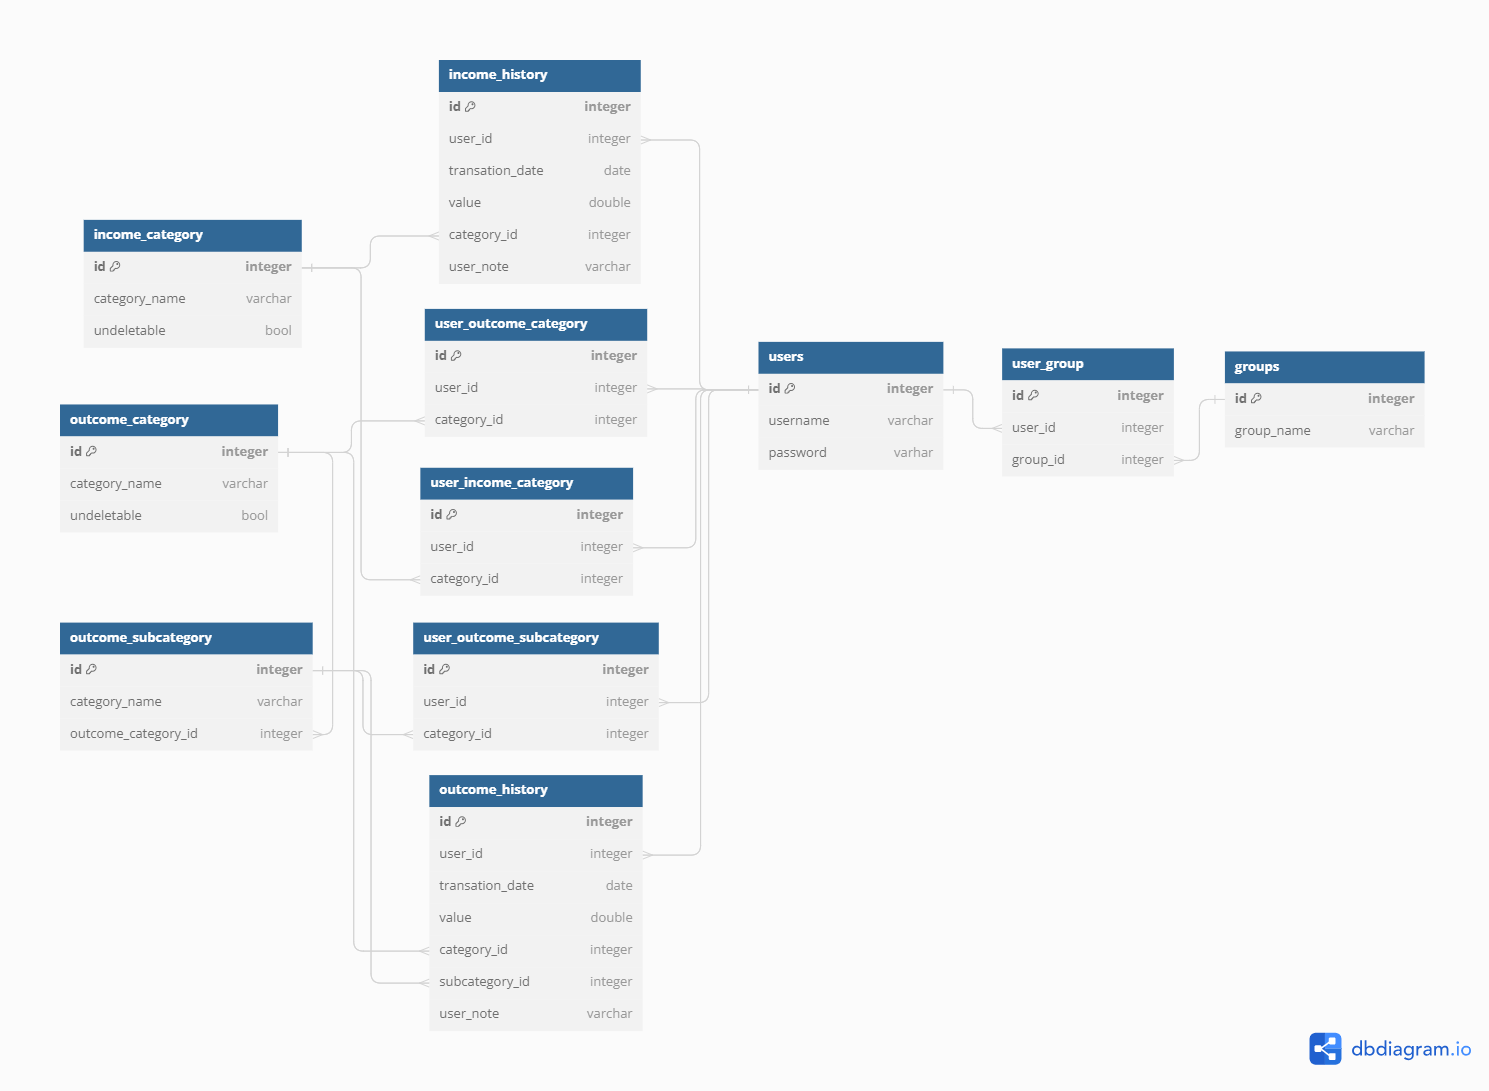
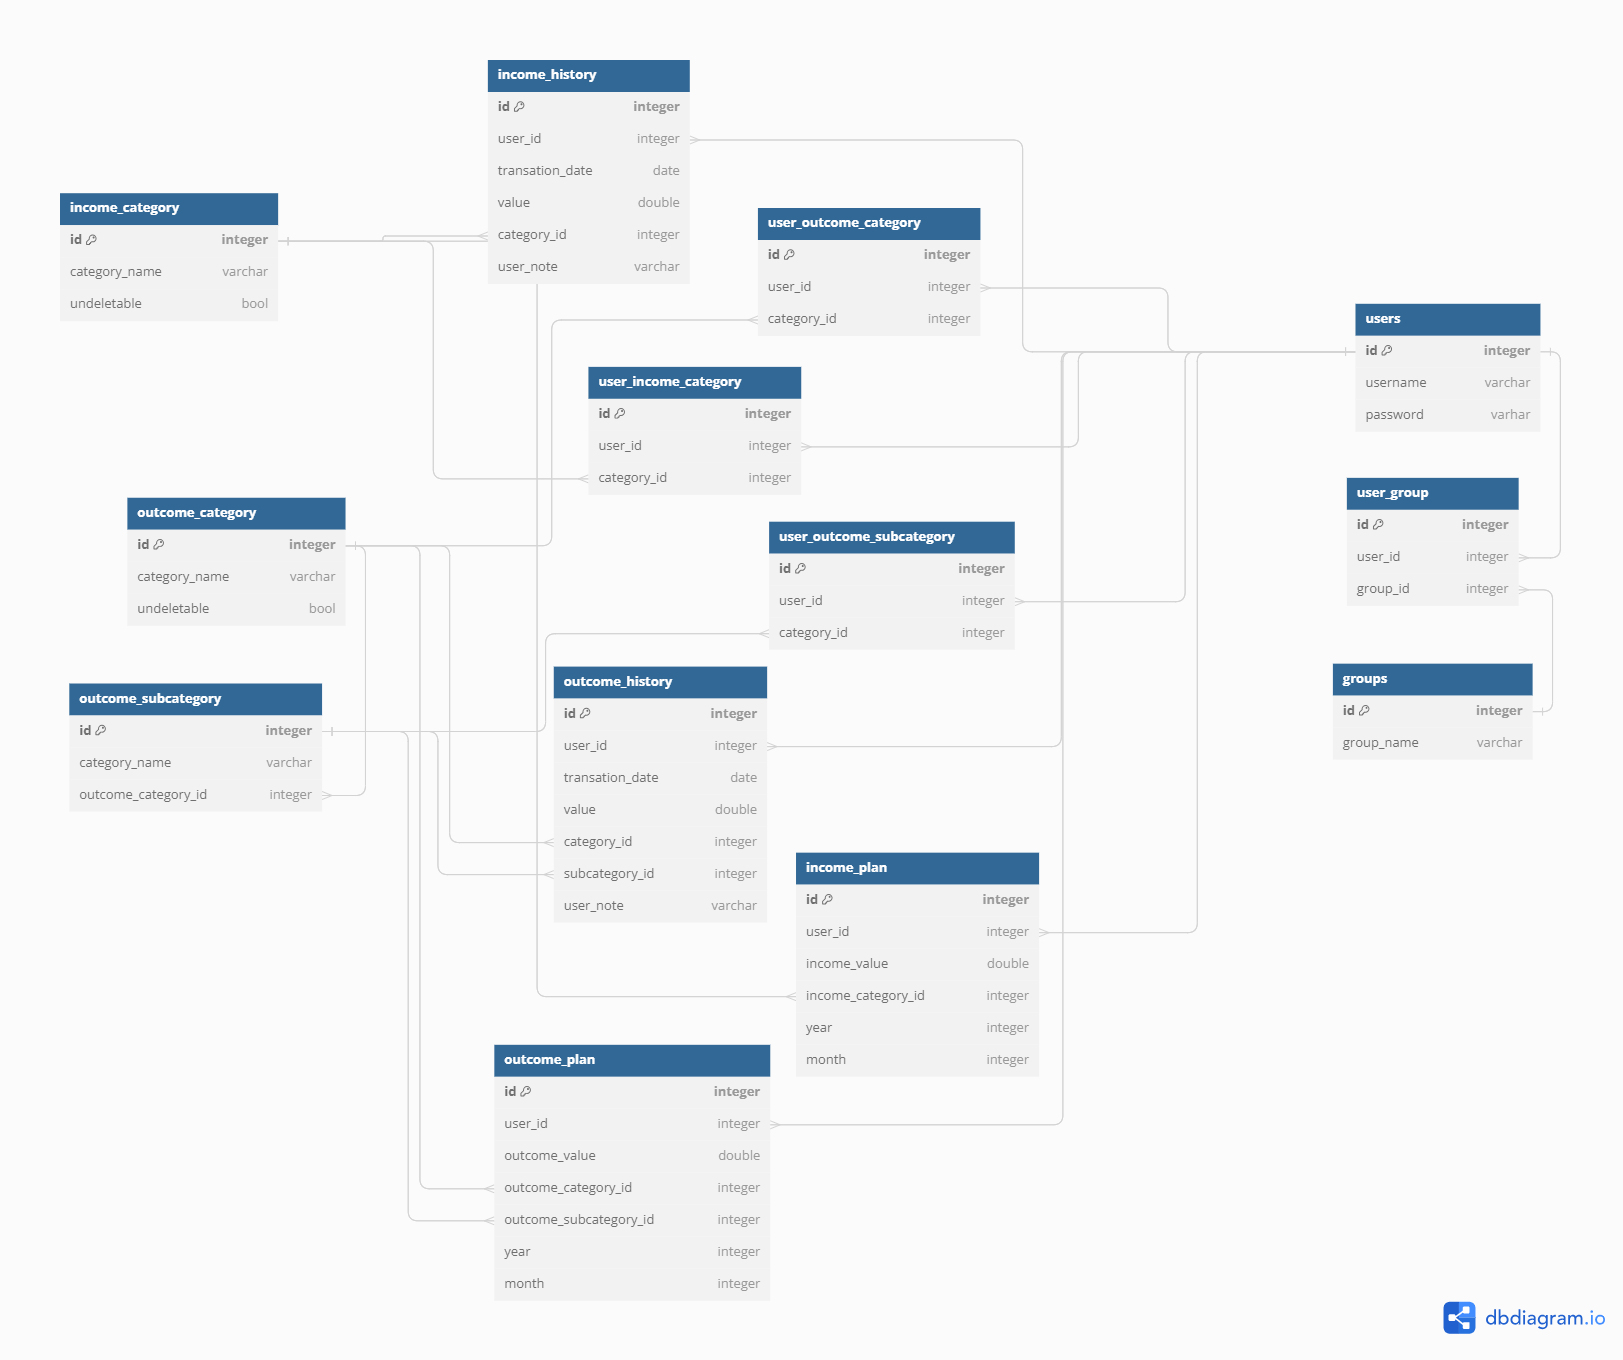
Add budget planning to database (#26)
Add budget planning to database

diff --git a/app/database/database.py b/app/database/database.py
@@ -7,6 +7,7 @@ from .user_categories import (
 )
 from .groups import create_group, create_user_group_table
 from .transactions import create_income_history_table, create_outcome_history_table
+from .budget_plan import create_income_plan_table, create_outcome_plan_table
 
 from app import app, db
 from flask_login import UserMixin
@@ -22,8 +23,37 @@ IncomeHistory = create_income_history_table(db)
 UserIncomeCategory = create_user_income_categories_table(db)
 UserOutcomeCategory = create_user_outcome_categories_table(db)
 UserOutcomeSubcategory = create_user_outcome_subcategories_table(db)
+OutcomePlan = create_outcome_plan_table(db)
+IncomePlan = create_income_plan_table(db)
+
+
+def default_income_categories():
+    category_names = ['Salary', 'Others']
+    for category in category_names:
+        if category == 'Others':
+            record = IncomeCategory(category_name=category, undeletable=True)
+        else:
+            record = IncomeCategory(category_name=category, undeletable=False)
+        db.session.add(record)
+    db.session.commit()
+
+
+def default_outcome_categories():
+    category_names = ['Food', 'Apartment', 'Transport', 'Telecommunication', 'Health', 'Clothes', 'Hygiene', 'Kids',
+                      'Entertainment', 'Others', 'Debt', 'Investment']
+    for category in category_names:
+        if category == 'Others':
+            record = OutcomeCategory(category_name=category, undeletable=True)
+        else:
+            record = OutcomeCategory(category_name=category, undeletable=False)
+        db.session.add(record)
+    db.session.commit()
 
 
 def create_tables():
     with app.app_context():
         db.create_all()
+        if db.session.query(IncomeCategory).first() is None:
+            default_income_categories()
+        if db.session.query(OutcomeCategory).first() is None:
+            default_outcome_categories()

diff --git a/app/database/budget_plan.py b/app/database/budget_plan.py
@@ -1,0 +1,36 @@
+from sqlalchemy import Column, Integer,  Sequence, ForeignKey, CheckConstraint
+
+
+def create_income_plan_table(db):
+    class IncomePlan(db.Model):
+        __tablename__ = "income_plan"
+        id = Column(Integer, Sequence("seq_income_plan_id", start=1), primary_key=True)
+        user_id = Column(Integer, ForeignKey("users.id"), nullable=False)
+        income_value = Column(Integer, nullable=False)
+        income_category_id = Column(Integer, ForeignKey("income_category.id"), nullable=False)
+        year = Column(Integer, nullable=False)
+        month = Column(Integer, nullable=False)
+        __table_args__ = (
+            CheckConstraint("month >= 1"),
+            CheckConstraint("month <= 12"),
+            CheckConstraint("income_value > 0")
+        )
+    return IncomePlan
+
+
+def create_outcome_plan_table(db):
+    class OutcomePlan(db.Model):
+        __tablename__ = "outcome_plan"
+        id = Column(Integer, Sequence("seq_outcome_plan_id", start=1), primary_key=True)
+        user_id = Column(Integer, ForeignKey("users.id"), nullable=False)
+        outcome_value = Column(Integer, nullable=False)
+        outcome_category_id = Column(Integer, ForeignKey("outcome_category.id"), nullable=False)
+        outcome_subcategory_id = Column(Integer, ForeignKey("outcome_subcategory.id"), nullable=True)
+        year = Column(Integer, nullable=False)
+        month = Column(Integer, nullable=False)
+        __table_args__ = (
+            CheckConstraint("month >= 1"),
+            CheckConstraint("month  <= 12"),
+            CheckConstraint("outcome_value >0")
+        )
+    return OutcomePlan

diff --git a/app/database/users.py b/app/database/users.py
@@ -8,8 +8,9 @@ def create_users_table(db, UserMixin):
         user_name = Column(String, unique=True, nullable=False)
         password = Column(String, nullable=False)
         __table_args__ = (
-            CheckConstraint("LENGTH(user_name) > 3 AND LENGTH(user_name) <= 15"),
-            CheckConstraint("LENGTH(password) = 60"),
+            CheckConstraint("LENGTH(user_name) > 3"),
+            CheckConstraint("LENGTH(user_name) <= 15"),
+            CheckConstraint("LENGTH(password) = 60")
         )
 
     return Users
